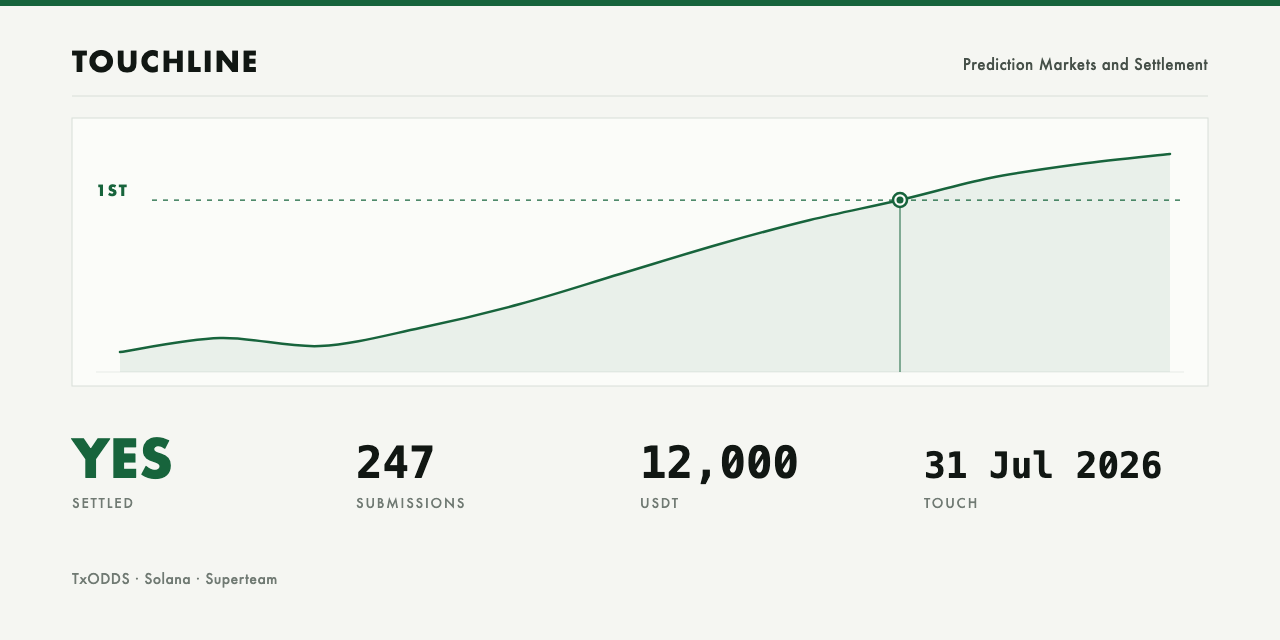
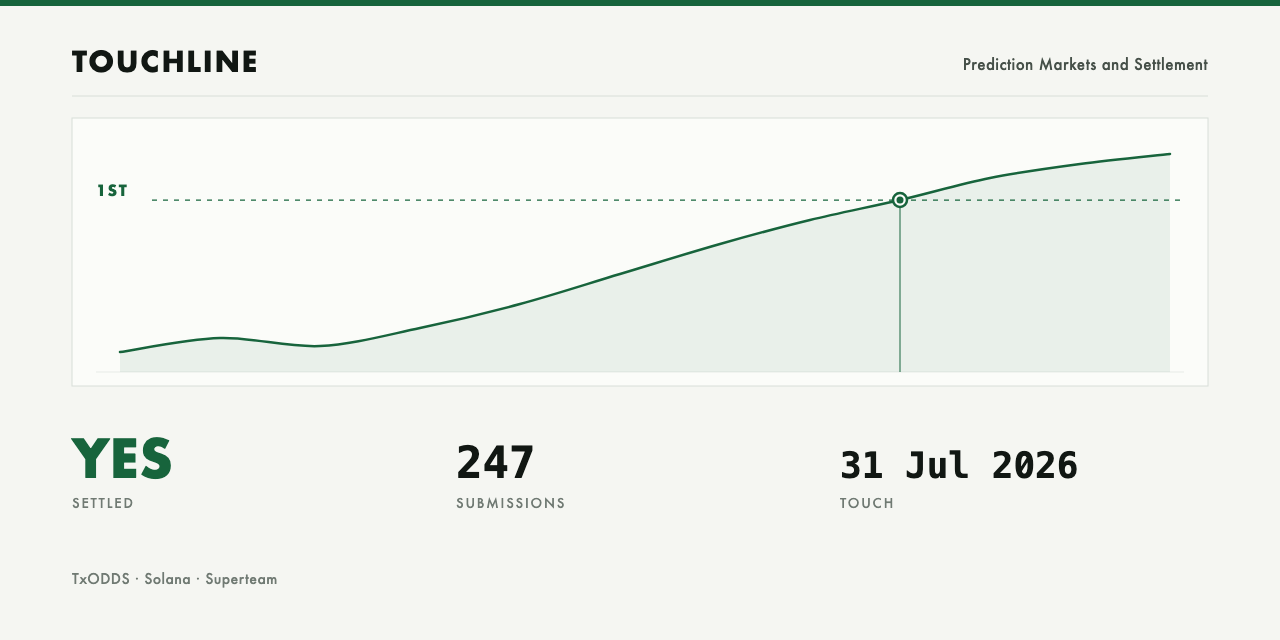
docs: state the 1st-place result without the purse

diff --git a/README.md b/README.md
@@ -4,7 +4,7 @@
 > TxLINE's de-margined win probabilities, priced by a one-line theorem and **settled by a Merkle
 > proof of a single odds tick, verified against the Solana-anchored daily batch root.**
 
-<img src="docs/result.svg" alt="Settled yes. Touchline finished 1st of 247. Payout 12,000 USDT." width="100%">
+<img src="docs/result.svg" alt="Settled yes. Touchline finished 1st of 247." width="100%">
 
 | | |
 | --- | --- |
@@ -13,7 +13,6 @@
 | Barrier | 1st |
 | Touch | 31 July 2026 |
 | Settlement | YES |
-| Payout | 12,000 USDT |
 | Anchor | [TxODDS announcement](https://x.com/TXODDSOfficial/status/2083192087210561558) |
 | Track | [Prediction Markets and Settlement](https://superteam.fun/earn/listing/prediction-markets-and-settlement) |
 
